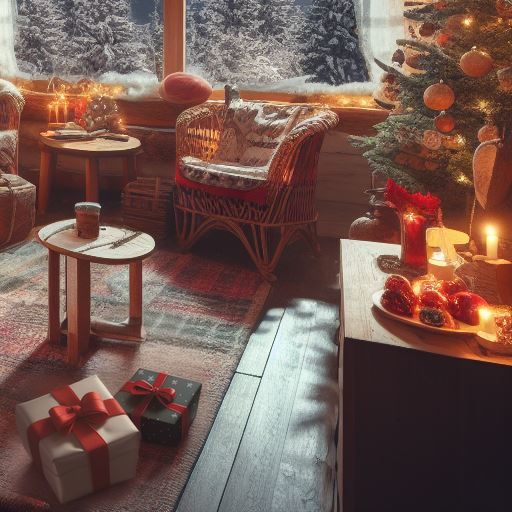
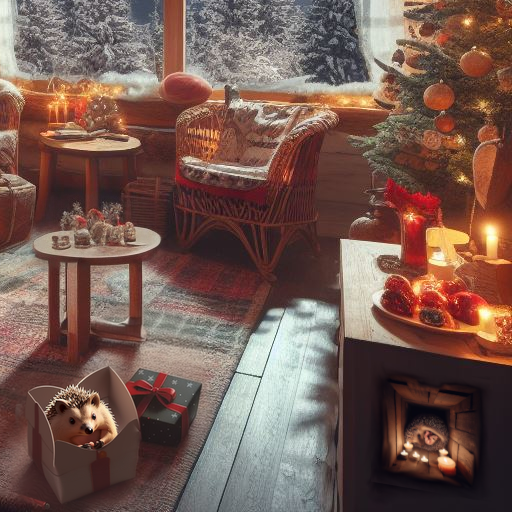
streamline css. New door 3

Changed region(s): [[0.0312, 0.7188, 0.2812, 0.9062], [0.75, 0.7188, 0.9375, 0.9375], [0.0625, 0.375, 0.3125, 0.5312]]

diff --git a/styles.css b/styles.css
@@ -81,7 +81,7 @@ body {
 }
 
 .calendar-overlay .bottomright {
-  background: url(assets/bottomright2.png);
+  background: url(assets/bottomright.png);
   bottom: 0px;
   right: 0px
 }
@@ -92,39 +92,22 @@ body {
   ;
 }
 
-
-
-
-
 /* opening/closing doors */
 .calendar-grid .day {
   /*transform: translate3d(0px, 0px, 0px);*/
   position: absolute;
   width: 153px;
   height: 153px;
-}
-
-.calendar-grid .day-13 {
   width: 153px;
   height: 153px;
-  position: absolute;
-  top: 858px;
-  left: 518px;
 }
 
-.calendar-grid .day-19 {
-  width: 153px;
-  height: 153px;
-  top: 859px;
-  left: 859px;
+.calendar-grid .day {
+  position: absolute;
 }
 
-.calendar-grid .day-24 {
-  width: 322px;
-  height: 322px;
-  position: absolute;
-  top: 12px;
-  left: 524px; /* 512 + 12 */
+.calendar-grid .day .door {
+  background-size: cover;
 }
 
 .calendar-grid input {
@@ -382,9 +365,16 @@ footer a {
   z-index: 16;
 }
 .calendar-grid .day-3 {
-  grid-area: day3;
   z-index: 23;
+  top: 688px;   /* 176 */
+  left: 518px;  /* 6 */
+
+  .door {
+    background: url(assets/3c.png);
+    background-size: cover;
+  }
 }
+
 .calendar-grid .day-4 {
   grid-area: day4;
   z-index: 15;
@@ -423,10 +413,13 @@ footer a {
   z-index: 13;
 }
 
-.calendar-grid .day-13 .door {
-  background: url(assets/13c.png);  
-  grid-area: day13;
-  z-index: 18;
+.calendar-grid .day-13 {
+  top: 858px;
+  left: 518px;
+  .door {
+    background: url(assets/13c.png);  
+    z-index: 18;
+  }
 }
 
 .calendar-grid .day-14 {
@@ -450,13 +443,12 @@ footer a {
   z-index: 20;
 }
 .calendar-grid .day-19 {
-  grid-area: day19;
+  top: 859px;
+  left: 859px;
   z-index: 3;
-}
-.calendar-grid .day-19 .door {
-  grid-area: day19;
-  background: url(assets/19c.png);
-  z-index: 3;
+  .door {
+    background: url(assets/19c.png);
+  }
 }
 
 .calendar-grid .day-20 {
@@ -476,12 +468,14 @@ footer a {
   z-index: 5;
 }
 .calendar-grid .day-24 {
-  grid-area: day24;
+  width: 322px;
+  height: 322px;
+  top: 12px;
+  left: 524px; /* 512 + 12 */
   z-index: 17;
-}
-.calendar-grid .day-24 .door {
-  background: url(assets/24c.png);
-  background-size: cover;
+  .door {
+    background: url(assets/24c.png);
+  }
 }
 
 /*@media only screen and (min-width: 576px) {*/
